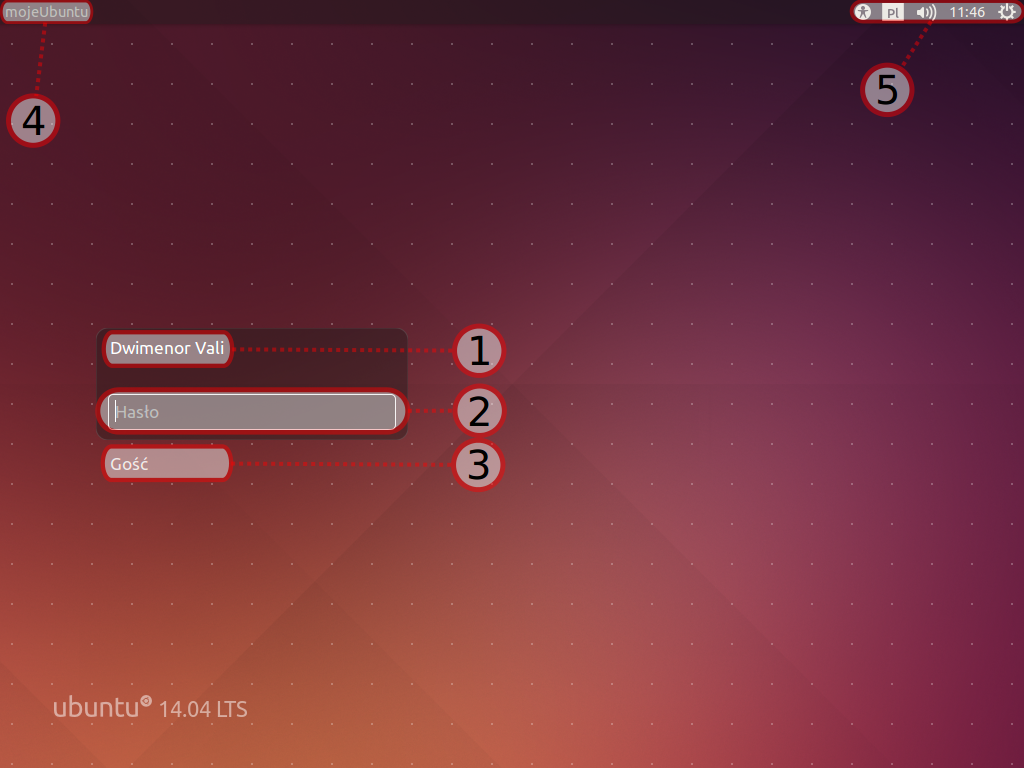
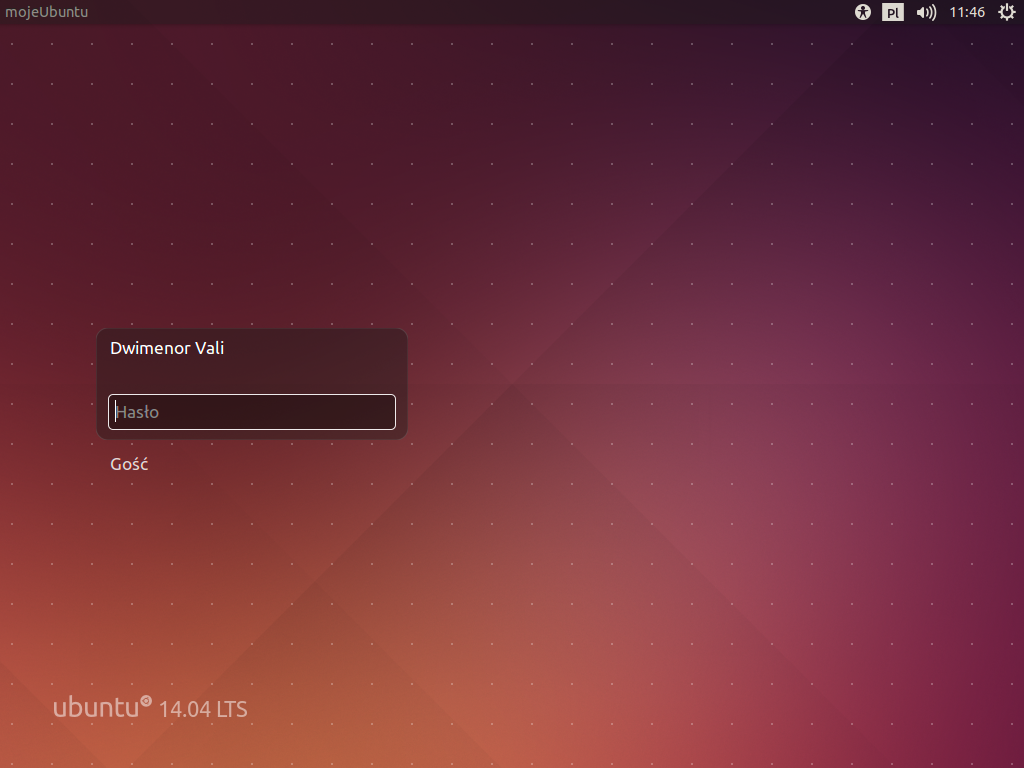
Przygotowanie do wydania

diff --git a/files/unity/programy_nautilus.tex b/files/unity/programy_nautilus.tex
@@ -7,9 +7,33 @@ Menadżer plików jest programem służącym do przeglądania zawartości katalo
 
 Program Pliki po uruchomieniu wyświetla zawartość katalogu domowego, w którym użytkownik przechowuje swoje osobiste pliki. Każdy użytkownik ma swój oddzielny katalog domowy, którego nazwa odpowiadania nazwie użytkownika. Po utworzeniu konta w katalogu domowym automatycznie tworzone są katalogi Dokumenty, Muzyka, Obrazy, Pobrane, Publiczny, Pulpit, Szablony, Wideo. Użytkownik nie jest ograniczony jedynie do nich i bez problemu w katalogu domowym może stworzyć więcej katalogów i plików.
 
+Menadżer plików w lewym panelu będzie też wyświetlał podłączone urządzenia (pendrive'y, karty SD, płyty włożone do napędów optycznych) oraz udziały sieciowe (inne podłączone komputery). Pozycja \textcolor{ubuntu_orange}{Komputer} przenosi do początku systemu plików (katalog /).
+
 \begin{center}
-	\includegraphics[width=\linewidth]{images/programy_nautilus.png}
+	\begin{tikzpicture}
+	\node[anchor=south west,inner sep=0] (image) at (0,0) {\includegraphics[width=\linewidth]{images/programy_nautilus.png}};
+	\begin{scope}[x={(image.south east)},y={(image.north west)}]
+		\draw[ubuntu_orange,line width=3pt,rounded corners] (0.005,0.88) rectangle (0.085,0.95);
+		\draw[ubuntu_orange,line width=3pt,fill=white,fill opacity=0.75] (0.35,0.96) circle [radius=0.30cm]
+			node[text=black]{\Large \textbf 1};
+		\draw[ubuntu_orange,dashed,line width=3pt] (0.33,0.96) -- (0.05,0.98) -- (0.05,0.95);
+		
+		\draw[ubuntu_orange,line width=3pt,rounded corners] (0.085,0.88) rectangle (0.27,0.95);
+		\draw[ubuntu_orange,line width=3pt,fill=white,fill opacity=0.75] (0.35,0.89) circle [radius=0.30cm]
+			node[text=black]{\Large \textbf 2};
+		\draw[ubuntu_orange,dashed,line width=3pt] (0.33,0.89) -- (0.27,0.89);
+		
+		\draw[ubuntu_orange,line width=3pt,fill=white,fill opacity=0.75] (0.55,0.35) circle [radius=0.30cm]
+			node[text=black]{\Large \textbf 3};
+					
+		\draw[ubuntu_orange,line width=3pt,rounded corners] (0.005,0.005) rectangle (0.22,0.87);
+		\draw[ubuntu_orange,line width=3pt,fill=white,fill opacity=0.75] (0.1,0.1) circle [radius=0.30cm]
+			node[text=black]{\Large \textbf 4};
+
+    \end{scope}
+\end{tikzpicture}
 \end{center}
+
 
 W oknie menadżera plików widzimy:
 \begin{enumerate}[label=\protect\circled{\arabic*}]
@@ -18,8 +42,6 @@ W oknie menadżera plików widzimy:
 \item zawartośc aktualnego katalogu;
 \item pasek ze skrótami do najważniejszych miejsc.
 \end{enumerate}
-
-Menadżer plików w lewym panelu będzie też wyświetlał podłączone urządzenia (pendrive'y, karty SD, płyty włożone do napędów optycznych) oraz udziały sieciowe (inne podłączone komputery). Pozycja \textcolor{ubuntu_orange}{Komputer} przenosi do początku systemu plików (katalog /)
 
 Do nawigacji w pasku narzędzi oraz lewym panelu wykorzystywane jest pojedyncze kliknięcie lewym przyciskiem myszy. W prawym panelu pliki oraz katalogi domyślnie otwieramy dwukrotnym szybkim przyciśnięciem lewego przycisku myszy. W przypadku otwarcia pliku, Ubuntu rozpozna typ pliku i automatycznie spróbuje przypisać odpowiednią dla danego pliku aplikację. Czasami system może nie rozpoznać typu pliku lub może zajść potrzeba otwarcia pliku w innym programie. W takich wypadkach, po dwukrotnym kliknięciu pliku system zapyta, który program z zainstalowanych w systemie chcemy wykorzystać. Możemy również kliknąć plik prawym przyciskiem myszy i z menu kontekstowego wybrać ,,Otwórz za pomocą'', a następnie wybrać z listy dostępnych programów lub samemu wskazać inny.
 
@@ -42,21 +64,21 @@ Ubuntu, jak każdy inny linux, umożliwia tworzenie ukrytych plików i katalogó
 UWAGA: Wyświetlenie ukrytych plików w katalogu domowym użytkownika wyświetli wiele dodatkowych plików i katalogów, które w większości przypadków przechowują ustawienia wielu programów, wyglądu oraz zachowań konta użytkownika. Niewłaściwe obchodzenie się z tymi plikami może mieć negatywne skutki. Zaleca się zatem dodatkową ostrożność.
 
 \subsubsection{Kopiowanie i przenoszenie plików oraz katalogów}
-Ubuntu, jak każdy inny system, umożliwia kopiowanie i przenoszenie plików oraz katalogów z jednego miejsca w inne. Aby plik lub katalog skopiować, albo przenieść, z jednego miejsca w inne, trzeba go najpierw zaznaczyć, a następnie kliknąć prawym przyciskiem myszy i wybrać z menu kontekstowego ,,Skopiuj'' (w przypadku, gdy chcemy utworzyć kopię) lub ,,Wytnij'' (w przypadku, gdy plik chcemy przenieść), a następnie przechodzimy do katalogu, w którym plik chcemy umieścić i w wolnym miejscu klikamy prawym przyciskiem myszy i wybieramy ,,Wklej''. Te same opcje dostępne są z panelu menu i znajdują się one w zakładce ,,Edycja''.
+Ubuntu, jak każdy inny system, umożliwia kopiowanie i przenoszenie plików oraz katalogów z~jednego miejsca w inne. Aby plik lub katalog skopiować, albo przenieść, z jednego miejsca w inne, trzeba go najpierw zaznaczyć, a następnie kliknąć prawym przyciskiem myszy i wybrać z menu kontekstowego ,,Skopiuj'' (w przypadku, gdy chcemy utworzyć kopię) lub ,,Wytnij'' (w przypadku, gdy plik chcemy przenieść), a następnie przechodzimy do katalogu, w którym plik chcemy umieścić i w wolnym miejscu klikamy prawym przyciskiem myszy i wybieramy ,,Wklej''. Te same opcje dostępne są z panelu menu i znajdują się one w zakładce ,,Edycja''.
 
 W menu kontekstowym pod prawym przyciskiem myszy mamy również opcję \textcolor{ubuntu_orange}{Skopiuj do \ldots} oraz \textcolor{ubuntu_orange}{Przenieś do \ldots}. Po ich wybraniu będziemy mieli możliwość wskazania folderu, w którym chcemy umieścić nasz plik lub katalog.
 Do powyższych czynności możemy również wykorzystać skróty klawiaturowe. Aby skopiować zaznaczony obiekt, należy użyć skrótu \keys{CTRL + c}, aby go przenieść --- \keys{CTRL + x}, aby wkleić obiekt w nowym miejscu --- \keys{CTRL + v}.
 
 Aby zaznaczyć wiele obiektów naraz, należy kliknąć wolne miejsce w oknie, przytrzymać lewy przycisk myszy i zaznaczyć wybrane elementy. Gdy pliki znajdują się obok siebie, można wykorzystać przycisk \keys{Shift} --- przytrzymując go, należy najpierw pojedynczym kliknięciem lewym przyciskiem myszy zaznaczyć pierwszy obiekt, a następnie ciągle przytrzymując przycisk \keys{Shift} kliknąć następny obiekt. Gdy obiekty, które chcemy zaznaczyć, przedzielone są innymi obiektami, wówczas pomocny może się okazać przycisk \keys{CTRL} --- przytrzymanie go również umożliwia zaznaczenie wielu elementów, tyle że niekoniecznie muszą one znajdować się obok siebie.
 
-\subsubsection{Wyszukiwanie plików w programie Pliki}
+\subsubsection{Wyszukiwanie plików}
 \begin{center}
 	\includegraphics[width=\linewidth]{images/programy_nautilus2.png}
 \end{center}
 
 To, że Dash jest potężnym narzędziem i że pozwala wyszukiwać pliki, już wiemy. Ale pliki i katalogi możemy również wyszukiwać wykorzystując okno programu Pliki. Jak już wcześniej wspomnieliśmy, na pasku narzędzi okna programu znajduje się przycisk wyszukiwania (ikona szkła powiększającego). Po naciśnięciu przycisku wyszukiwania pojawi się pasek, w którym podajemy frazę (nazwę pliku lub katalogu) do wyszukania. Rezultaty wyszukiwania, podobnie jak w Dashu, możemy filtrować. Możemy określić, czy wyszukiwanie ma się odbywać w obrębie naszego katalogu domowego, czy w całym systemie. Możemy również podać dodatkowe kryteria wyszukiwania, określając jakiego typu plików szukamy.
 
-\subsubsection{Używanie wielu okien lub wielu kart w programie Pliki}
+\subsubsection{Używanie wielu okien lub wielu kart}
 W przypadku kopiowania lub przenoszenia plików pomocne może być otwarcie wielu okien lub kart. Nowe okno programu Pliki można otworzyć na wiele sposób:
 \begin{itemize}
 \item wykorzystując panel menu i przycisk \menu{{Plik}>{Nowe okno}};

diff --git a/files/unity/unity_dash.tex b/files/unity/unity_dash.tex
@@ -1,8 +1,8 @@
+Dash jest potężnym narzędziem Unity, pozwalającym na szybkie wyszukiwanie i łatwy dostęp do programów, plików oraz dodatkowych informacji przechowywanych nie tylko w naszym komputerze (zainstalowane programy, ostatnio używane dokumenty, zakładki, ostatnio odwiedzone strony i inne), ale również dostępnych w sieci (Twitter, Facebook, Google Docs, Youtube, Wikipedia, Amazon i inne). Wyniki wyszukiwania w zewnętrznych serwisach dopasowane są do wyszukiwanej frazy i zwracane w~oknie Dasha. Jeżeli niepokoi cię, że szukana fraza przesyłana jest do internetu, to możesz tę funkcję wyłączyć w Ustawieniach systemowych, w oknie \textcolor{ubuntu_orange}{Prywatność i bezpieczeństwo}.
+
 \begin{center}
 	\includegraphics[width=\linewidth]{images/unity_pulpit_dash.png}
 \end{center}
-
-Dash jest potężnym narzędziem Unity, pozwalającym na szybkie wyszukiwanie i łatwy dostęp do programów, plików oraz dodatkowych informacji przechowywanych nie tylko w naszym komputerze (zainstalowane programy, ostatnio używane dokumenty, zakładki, ostatnio odwiedzone strony i inne), ale również dostępnych w sieci (Twitter, Facebook, Google Docs, Youtube, Wikipedia, Amazon i inne). Wyniki wyszukiwania w zewnętrznych serwisach dopasowane są do wyszukiwanej frazy i zwracane w oknie Dasha. Jeżeli niepokoi cię, że szukana fraza przesyłana jest do internetu, to możesz tę funkcję wyłączyć w Ustawieniach systemowych, w oknie \textcolor{ubuntu_orange}{Prywatność i bezpieczeństwo}.
 
 Dash można porównać do Menu Start z systemu Microsoft Windows XP/Vista/7 lub do ekranu startowego w Windows 8. Odpowiednikiem Dasha w systemie Mac OS X jest Launchpad.
 
@@ -11,14 +11,13 @@ Dash można porównać do Menu Start z systemu Microsoft Windows XP/Vista/7 lub 
 	\includegraphics[width=\linewidth]{images/ikony_dash.png}
 \end{wrapfigure}
 
-Ikona Dasha umieszczona jest na pierwszej pozycji na pasku Launchera --- jest ona dość charakterystyczna i zawiera logo Ubuntu. Po naciśnięciu ikony Dasha pojawi się jego przezroczyste okno, które w środkowej części wyświetla dwie grupy: ostatnio uruchomionych programów, ostatnio przeglądanych oraz pobranych plików i katalogów, a także wyszukiwanych informacji. W górnej części Dasha znajduje się pasek wyszukiwania, który pozwala przeszukiwać nie tylko zasoby komputera, ale również wyszukiwać i przeglądać informacje z popularnych serwisów w sieci. 
+Ikona Dasha umieszczona jest na pierwszej pozycji na pasku Launchera --- jest ona dość charakterystyczna i zawiera logo Ubuntu. Po naciśnięciu ikony Dasha pojawi się jego przezroczyste okno, które w środkowej części wyświetla dwie grupy: ostatnio uruchomionych programów, ostatnio przeglądanych oraz pobranych plików i katalogów, a także wyszukiwanych informacji. W górnej części Dasha znajduje się pasek wyszukiwania, który pozwala przeszukiwać nie tylko zasoby komputera, ale również wyszukiwać i przeglądać informacje z~popularnych serwisów w sieci. 
 
-\begin{wrapfigure}{l}{0.2\textwidth}
-                \includegraphics[width=\linewidth]{images/unity_dash_max.png}
+\begin{wrapfigure}{r}{0.2\textwidth}
+	\includegraphics[width=\linewidth]{images/unity_dash_max.png}
 \end{wrapfigure}
 
-Dash po uruchomieniu zajmuje pewien obszar ekranu. Jego okno można powiększyć na cały ekran --- służy do tego przycisk maksymalizacji w lewym górnym rogu, widoczny, gdy Dash jest aktywny.\\
-Wyszukiwanie w pasku jest dynamiczne i rezultaty zmieniają się podczas wpisywania tekstu, a wyniki można filtrować. Służy do tego nie tylko przycisk filtrowania wyników, ale również domyślnie włączone soczewki (Lenses).
+Dash po uruchomieniu zajmuje pewien obszar ekranu. Jego okno można powiększyć na cały ekran --- służy do tego przycisk maksymalizacji w lewym górnym rogu, widoczny, gdy Dash jest aktywny. Wyszukiwanie w pasku jest dynamiczne i rezultaty zmieniają się podczas wpisywania tekstu, a wyniki można filtrować. Służy do tego nie tylko przycisk filtrowania wyników, ale również domyślnie włączone soczewki (Lenses).
 
 \subsubsection{Soczewki (Lenses)}
 \begin{center}
@@ -55,4 +54,3 @@ Wyniki wyszukiwania można zawęzić do konkretnych źródeł, wykorzystując do
 \end{center}
 
 W Ubuntu nie jesteśmy ograniczeni do domyślnego zestawu soczewek. Wiele serwisów internetowych udostępnia swoje własne soczewki, które można w łatwy sposób doinstalować i korzystać z nich w ten sam sposób, jak z domyślnych.
-%TODO opisać instalację soczewki.

diff --git a/files/unity/unity_launcher.tex b/files/unity/unity_launcher.tex
@@ -3,16 +3,16 @@ Pasek umieszczony po lewej stronie ekranu nosi nazwę Launchera (ang: \textcolor
 \subsubsection{Uruchamianie programów z Launchera}
 \begin{wrapfigure}{l}{0.1\textwidth}
 	\vspace{-10pt}
-\includegraphics[width=\linewidth]{images/unity_launcher_programy.png}
+	\includegraphics[width=\linewidth]{images/unity_launcher_programy.png}
 \end{wrapfigure}
 
 Aby uruchomić program bezpośrednio z Launchera, wystarczy pojedyncze kliknięcie ikony wybranego programu lewym przyciskiem myszy. Uruchomione programy mają podświetlone ikony oraz niewielki trójkącik po lewej stronie. Aby uruchomić kolejną kopię programu, kliknij jego ikonę lewym przyciskiem myszy, trzymając wciśnięty klawisz \keys{Shift}.
 
-\noindent Liczba trójkątów po lewej stronie programu oznacza ilość otwartych kopii danego programu. Jak łatwo się domyślić, gdy ikona nie ma żadnego trójkącika, to program jest wyłączony. Program, którego aktualnie używamy (aktywne okno), jest oznaczony trójkącikiem po prawej stronie ikony.
+Liczba trójkątów po lewej stronie programu oznacza ilość otwartych kopii danego programu. Jak łatwo się domyślić, gdy ikona nie ma żadnego trójkącika, to program jest wyłączony. Program, którego aktualnie używamy (aktywne okno), jest oznaczony trójkącikiem po prawej stronie ikony.
 
-\noindent Na rysunku obok widzimy ikonę programu Pliki (menadżer plików Nautilus), który jest uruchomiony jeden raz. Tło ikony jest podświetlone.\\
-Ikona przeglądarki internetowej Firefox ma trzy trójkąty po lewej. Oznacza to, że została uruchomiona w trzech osobnych instancjach. Jedna z kopii Firefoksa jest akurat w użyciu, co sygnalizuje trójkącik po prawej. Tło ikony jest podświetlone.\\
-Trzecia ikona na rynku (skrót do procesora tekstu LibreOffice Writer) jest nieaktywna. Ten program nie jest aktualnie uruchomiony.
+Na rysunku obok widzimy ikonę programu Pliki (menadżer plików Nautilus), który jest uruchomiony jeden raz. Tło ikony jest podświetlone.
+
+Ikona przeglądarki internetowej Firefox ma trzy trójkąty po lewej. Oznacza to, że została uruchomiona w trzech osobnych instancjach. Jedna z kopii Firefoksa jest akurat w użyciu, co sygnalizuje trójkącik po prawej. Tło ikony jest podświetlone. Trzecia ikona na rynku (skrót do procesora tekstu LibreOffice Writer) jest nieaktywna. Ten program nie jest aktualnie uruchomiony.
 
 \subsubsection{Zarządzanie otwartymi oknami}
 Kliknięcie ikony uruchomionego programu lewym przyciskiem myszy przenosi do otwartego okna. Jeżeli dany program ma więcej niż jedną instancję, to pokazane zostaną miniatury wszystkich jego okien. Klikając lewym przyciskiem myszy możesz wybrać, o które okno ci chodzi. 
@@ -36,9 +36,10 @@ Druga metoda polega na uruchomieniu programu. Następnie należy kliknąć prawy
 Ikonę z paska można usunąć na dwa sposoby. Chwyć ikonę kursorem myszy i przenieś ją do kosza lub, po naciśnięciu ikony prawym przyciskiem myszy, z menu kontekstowego wybierz \textcolor{ubuntu_orange}{Usuń z panelu uruchamiania}.
 
 \subsubsection{Szybka Lista menu kontekstowego (QuickList)}
+QuickList (Szybka Lista) to jedna z ciekawszych funkcji Launchera. Po kliknięciu prawym przyciskiem myszy ikony programu w Launcherze pojawia się menu kontekstowe, w którym można umieścić różne polecenia. Na poniższej ilustracji widać dwa przykłady. Po lewej mamy menu kontekstowe Dasha, zawierające skróty do zainstalowanych soczewek (omówionych w kolejnym rozdziale). Po prawej widać menu kontekstowe menadżera plików, zawierające skróty do najważniejszych katalogów użytkownika. Przeglądarka internetowa Firefox pozwoli dodatkowo uruchomić okno anonimowego przeglądania.
+
 \begin{center}
 	\includegraphics[width=\linewidth]{images/unity_launcher_quicklist.png}
 \end{center}
 
-QuickList (Szybka Lista) to jedna z ciekawszych funkcji Launchera. Po kliknięciu prawym przyciskiem myszy ikony programu w Launcherze pojawia się menu kontekstowe, w którym można umieścić różne polecenia. Na powyższej ilustracji widać dwa przykłady. Po lewej mamy menu kontekstowe Dasha, zawierające skróty do zainstalowanych soczewek (omówionych w kolejnym rozdziale). Po prawej widać menu kontekstowe menadżera plików, zawierające skróty do najważniejszych katalogów użytkownika. Przeglądarka internetowa Firefox pozwoli dodatkowo uruchomić okno anonimowego przeglądania.
-\clearpage
+

diff --git a/files/pierwsze_uruchomienie/pierwsze_uruchomienie_aktualizacja_instalacja.tex b/files/pierwsze_uruchomienie/pierwsze_uruchomienie_aktualizacja_instalacja.tex
@@ -8,13 +8,11 @@
 Kliknij ikonę Dasha \includegraphics[scale=0.35]{images/ikony_dash.png} i wpisz \textcolor{ubuntu_orange}{Aktualizacje}. W trakcie wpisywania na ekranie wyników będą się pojawiały propozycje. Wybierz kolejno \menu{{Programy}>{Aktualizacje oprogramowania}}.
 System sprawdzi, czy dostępne są aktualizacje dla twojego Ubuntu i wyświetli podsumowanie.
 \begin{center}
-	\vspace{-10pt}
 	\includegraphics{images/pierwsze_uruchomienie_aktualizacja2.png}
 \end{center}
 
 Kliknij przycisk \textcolor{ubuntu_orange}{Zainstaluj}, aby zainstalować aktualizacje. Zostaniesz poproszony o podanie hasła w celu uwierzytelnienia. Każda operacja mająca wpływ na cały system wymaga potwierdzenia. Zapobiega to przypadkowemu uszkodzeniu systemu.
 \begin{center}
-	\vspace{-10pt}
 	\includegraphics{images/unity_uwierzytelnienie.png}
 \end{center}
 
@@ -23,7 +21,7 @@ Wpisz swoje hasło i potwierdź klawiszem Enter lub kliknij przycisk \textcolor{
 Kiedy aktualizacja się zakończy, możesz zostać poproszony o ponowne uruchomienie komputera. Restart jest potrzebny tylko wtedy, gdy aktualizowane było jądro systemu lub sterowniki. Inne aktualizacje nie wymagają restartu komputera, a jedynie zaktualizowanego programu.
 
 Później system będzie automatycznie sprawdzał, czy dostępne są aktualizacje, i powiadomi cię o tym.
-
+\clearpage
 \subsubsection{Instalacja spolszczenia}
 \begin{wrapfigure}{R}{0.1\textwidth}
 	\vspace{-10pt}
@@ -40,7 +38,7 @@ Kliknij ikonę Dasha \includegraphics[scale=0.35]{images/ikony_dash.png} i wpisz
 
 Po instalacji niezbędnych paczek możesz jeszcze dla pewności kliknąć \textcolor{ubuntu_orange}{Zastosuj dla całego systemu}. W ten sposób będziesz pewny, że cały system zostanie spolszczony.
 Jeśli zechcesz, aplikacja \textcolor{ubuntu_orange}{Języki} pozwoli ci później w łatwy sposób zainstalować i zmienić język systemu na każdy ze wspieranych przez społeczność Ubuntu.
-
+\clearpage
 \subsubsection{Instalacja dodatkowych sterowników}
 \label{pierwsze_uruchomienie_aktualizacja_instalacja}
 \begin{wrapfigure}{R}{0.1\textwidth}
@@ -50,12 +48,11 @@ Jeśli zechcesz, aplikacja \textcolor{ubuntu_orange}{Języki} pozwoli ci późni
 
 Prawdopodobnie nie wszystkie sterowniki zostały włączone podczas instalacji Ubuntu. Aby się upewnić, że sprzęt jest prawidłowo obsługiwany, kliknij ikonę Dasha \includegraphics[scale=0.35]{images/ikony_dash.png} i wpisz \textcolor{ubuntu_orange}{Sterowniki}. Z wyświetlonych wyników wybierz ,,Aktualizacje i sterowniki''. W otwartym oknie przejdź do zakładki ,,Dodatkowe sterowniki''. Poczekaj chwilę, aż system zbierze dane o twoim komputerze i porówna je z bazą danych sterowników. Następnie będziesz mógł wybrać, który sterownik z wyświetlonej listy powinien zostać użyty.
 \begin{center}
-	\vspace{-10pt}
 	\includegraphics[width=\linewidth]{images/pierwsze_uruchomienie_driver2.png}
 \end{center}
 
 Zmiana sterownika wymaga potwierdzenia. Wpisz swoje hasło i potwierdź klawiszem Enter lub kliknij przycisk \textcolor{ubuntu_orange}{Uwierzytelnij}. Więcej o wyborze sterownika przeczytasz w rozdziale \ref{sterowniki},,Sterowniki''.
-
+\clearpage
 \subsubsection{Instalacja dodatków}
 \label{ubuntu-restricted-extras}
 \begin{wrapfigure}{R}{0.1\textwidth}
@@ -65,7 +62,6 @@ Zmiana sterownika wymaga potwierdzenia. Wpisz swoje hasło i potwierdź klawisze
 
 Na koniec warto zainstalować kilka dodatkowych pakietów oprogramowania. Kliknij ikonę Dasha \includegraphics[scale=0.35]{images/ikony_dash.png} i wpisz \textcolor{ubuntu_orange}{Centrum Oprogramowania}. Z wiersza \textcolor{ubuntu_orange}{Programy} wybierz \textcolor{ubuntu_orange}{Centrum Oprogramowania Ubuntu}. W prawym górnym rogu nowo otwartego okna znajduje się pole wyszukiwania. Wpisz w nim \textcolor{ubuntu_orange}{Ograniczone dodatki Ubuntu} i wciśnij Enter. Poczekaj, aż odnaleziona zostanie ta paczka. Z listy wybierz \textcolor{ubuntu_orange}{Ubuntu restricted extras} i kliknij \textcolor{ubuntu_orange}{Zainstaluj}. Instalacja oprogramowania wymaga uwierzytelnienia. Wpisz swoje hasło i potwierdź klawiszem Enter lub kliknij przycisk \textcolor{ubuntu_orange}{Uwierzytelnij}.
 \begin{center}
-	\vspace{-10pt}
 	\includegraphics[width=\linewidth]{images/pierwsze_uruchomienie_dodatki2.png}
 \end{center}
 

diff --git a/files/unity/unity_panel_menu.tex b/files/unity/unity_panel_menu.tex
@@ -6,11 +6,11 @@
 
 Część wskaźników widoczna jest zaraz po zainstalowaniu systemu, inne można włączyć dodatkowo. Niektóre aplikacje po zainstalowaniu dodają, lub umożliwiają dodanie własnych wskaźników do obszaru powiadamiania. Najczęściej stosowane i domyślnie dostępne w Unity wskaźniki, to:
 \begin{description}
-\item[\includegraphics{images/unity_wskaznik_klawiatura.png}]\textcolor{ubuntu_orange}{Wskaźnik klawiatury} --- informuje o aktualnie używanym układzie klawiatury. Klikając go możesz zmienić układ klawiatury.
 \item[\includegraphics{images/unity_wskaznik_siec.png}]\textcolor{ubuntu_orange}{Wskaźnik połączeń sieciowych} --- informuje o stanie połączenia z siecią. Kliknięcie wywołuje opcje modyfikacji połączenia z internetem.
+\item[\includegraphics{images/unity_wskaznik_klawiatura.png}]\textcolor{ubuntu_orange}{Wskaźnik klawiatury} --- informuje o aktualnie używanym układzie klawiatury. Klikając go możesz zmienić układ klawiatury.
 \item[\includegraphics{images/unity_wskaznik_wiadomosci.png}]\textcolor{ubuntu_orange}{Wskaźnik wiadomości} --- informuje o przychodzących wiadomościach. Ten wskaźnik integruje się z komunikatorami internetowymi i zmienia kolor, gdy otrzymasz nową wiadomość. Pozwala także sterować komunikatorem, np. zmienić status lub wywołać okno główne.
-\item[\includegraphics{images/unity_wskaznik_dzwiek.png}]\textcolor{ubuntu_orange}{Wskaźnik ustawień dźwięku} --- informuje o głośności wyjścia audio. Jeżeli kursor myszy znajduje się nad tym wskaźnikiem, to poruszając kółkiem myszy możesz zmieniać głośność. Kliknięcie wskaźnika otwiera menu ustawień dźwięku oraz menu sterownia odtwarzaczem muzyki (pozwala np. go uruchomić lub zatrzymać, zmienić utwór, wyświetlić okładkę i informacje o aktualnie odtwarzanym pliku,a także włączyć listę odtwarzania).
 \item[\includegraphics{images/unity_wskaznik_zasilanie.png}]\textcolor{ubuntu_orange}{Wskaźnik zasilania i poziomu akumulatora} --- informuje o stanie stanie naładowania akumulatora oraz o dostępnym zasilaniu (akumulator/sieć). Ten wskaźnik nie jest wyświetlany, jesli komputer nie ma baterii. Kliknięcie wskaźnika otwiera menu zasilania.
+\item[\includegraphics{images/unity_wskaznik_dzwiek.png}]\textcolor{ubuntu_orange}{Wskaźnik ustawień dźwięku} --- informuje o głośności wyjścia audio. Jeżeli kursor myszy znajduje się nad tym wskaźnikiem, to poruszając kółkiem myszy możesz zmieniać głośność. Kliknięcie wskaźnika otwiera menu ustawień dźwięku oraz menu sterownia odtwarzaczem muzyki (pozwala np. go uruchomić lub zatrzymać, zmienić utwór, wyświetlić okładkę i informacje o aktualnie odtwarzanym pliku,a także włączyć listę odtwarzania).
 \item[\includegraphics{images/unity_wskaznik_zegar.png}]\textcolor{ubuntu_orange}{Zegar} --- wyświetla aktualną datę i czas. Kliknięcie otwiera kalendarz.
 \item[\includegraphics{images/unity_wskaznik_system.png}]\textcolor{ubuntu_orange}{Wskaźnik sesji} --- po kliknięciu wyświetla menu systemowe, pozwalające wyłączyć/zrestartować komputer, wyświetlić informacje o systemie, przełączyć użytkownika lub otworzyć narzędzie konfiguracji systemu.
 \end{description}

diff --git a/files/unity/unity_zarzadanie_oknami.tex b/files/unity/unity_zarzadanie_oknami.tex
@@ -1,5 +1,4 @@
 \begin{center}
-	\vspace{-10pt}
 	\includegraphics[width=\linewidth]{images/unity_okno_belka.png}
 \end{center}
 
@@ -15,7 +14,7 @@ W Ubuntu elementy sterujące okna (przyciski zamykania, minimalizacji i maksymal
 \subsubsection{Przenoszenie i zmiana rozmiaru okna}
 Po kliknięciu lewym przyciskiem myszy belki tytułowej okna i przytrzymaniu, możemy je przenieść w dowolne miejsce na pulpicie. Okno można również przenieść przytrzymując przycisk \keys{Alt} --- wówczas wystarczy kliknąć lewym przyciskiem myszy i przytrzymać w dowolnym miejscu okna, które chcemy przenieść.
 
-Aby zmienić rozmiar okna, kursor myszy należy umieścić nad wybraną krawędzią lub rogiem okna. Domyślny kursor zmieni się wówczas w dwustronną strzałkę, zwaną kursorem rozszerzania. Przytrzymanie przycisku myszy, gdy aktywny jest kursor rozszerzania, pozwoli na zmianę rozmiaru i kształtu okna.
+Aby zmienić rozmiar okna, kursor myszy należy umieścić nad wybraną krawędzią lub rogiem okna. Domyślny kursor zmieni się wówczas w dwustronną strzałkę, zwaną kursorem rozszerzania. Przytrzymanie przycisku myszy, gdy aktywny jest kursor rozszerzania, pozwoli na zmianę rozmiaru i~kształtu okna.
 
 \subsubsection{Przełączanie pomiędzy otwartymi oknami}
 W Ubuntu jest wiele sposobów na przełączanie pomiędzy otwartymi programami. Można wykorzystać mysz i kliknąć w dowolnym miejscu otwartych okien. Można wykorzystać ikony otwartych okien na pasku Launchera. Można również wykorzystać kombinację klawiszy \keys{Alt + Tab}.
@@ -23,12 +22,12 @@ W Ubuntu jest wiele sposobów na przełączanie pomiędzy otwartymi programami. 
 Gdy mamy otwarte wiele okien, przytrzymanie przycisku \keys{Alt} i wielokrotne naciskanie przycisku \keys{Tab} pozwala wybrać, które okno chcemy aktywować. Domyślnie przełączane w ten sposób są tylko okna z aktywnego obszaru roboczego. Korzystając z kombinacji \keys{Super + Tab} możemy przełączać pomiędzy kolejnymi ikonami na pasku Launchera.
 
 \subsubsection{Ukrywanie wszystkich okien --- pokaż pulpit}
-Aby ukryć wszystkie okna, nie trzeba ich, jedno po drugim, minimalizować. Można skorzystać ze skrótu \keys{Ctrl + Super + d}. Jego użycie spowoduje ukrycie wszystkich otwartych okien. Ponowne zastosowanie tego skrótu przywróci otwarte okna.
-
 \begin{wrapfigure}{l}{0.05\textwidth}
 	\vspace{-10pt}	
 	\includegraphics[width=\linewidth]{images/ikony_pokaz_pulpit.png}
 \end{wrapfigure}
+
+Aby ukryć wszystkie okna, nie trzeba ich, jedno po drugim, minimalizować. Można skorzystać ze skrótu \keys{Ctrl + Super + d}. Jego użycie spowoduje ukrycie wszystkich otwartych okien. Ponowne zastosowanie tego skrótu przywróci otwarte okna.
 
 W Ubuntu można również aktywować ikonę \textcolor{ubuntu_orange}{Pokaż pulpit}. Aby to zrobić, kliknij ikonę systemową \includegraphics{images/ikony_zasilanie.png} na panelu menu (w prawym górnym rogu) i wybierz \menu{{Ustawienia systemu}>{Osobiste}>{Wygląd}>{Zachowanie}>{Umieść ikonę ,,Pokaż pulpit'' na pasku Launchera}}.
 

diff --git a/files/pierwsze_uruchomienie/pierwsze_uruchomienie_greater.tex b/files/pierwsze_uruchomienie/pierwsze_uruchomienie_greater.tex
@@ -1,5 +1,33 @@
 \begin{center}
-        \includegraphics[scale=0.4]{images/greater.png}
+        	\begin{tikzpicture}
+	\node[anchor=south west,inner sep=0] (image) at (0,0) {\includegraphics[width=\linewidth]{images/greater.png}};
+	\begin{scope}[x={(image.south east)},y={(image.north west)}]
+		\draw[ubuntu_orange,line width=3pt,rounded corners] (0.1,0.52) rectangle (0.23,0.57);
+		\draw[ubuntu_orange,line width=3pt,fill=white,fill opacity=0.75] (0.45,0.55) circle [radius=0.30cm]
+			node[text=black]{\Large \textbf 1};
+		\draw[ubuntu_orange,dashed,line width=3pt] (0.43,0.55) -- (0.23,0.55);
+		
+		\draw[ubuntu_orange,line width=3pt,rounded corners] (0.1,0.44) rectangle (0.39,0.49);
+		\draw[ubuntu_orange,line width=3pt,fill=white,fill opacity=0.75] (0.45,0.47) circle [radius=0.30cm]
+			node[text=black]{\Large \textbf 2};
+		\draw[ubuntu_orange,dashed,line width=3pt] (0.43,0.47) -- (0.39,0.47);
+		
+		\draw[ubuntu_orange,line width=3pt,rounded corners] (0.1,0.38) rectangle (0.23,0.42);
+		\draw[ubuntu_orange,line width=3pt,fill=white,fill opacity=0.75] (0.45,0.40) circle [radius=0.30cm]
+			node[text=black]{\Large \textbf 3};
+		\draw[ubuntu_orange,dashed,line width=3pt] (0.43,0.40) -- (0.23,0.40);
+		
+		\draw[ubuntu_orange,line width=3pt,rounded corners] (0.00,0.96) rectangle (0.10,1.00);
+		\draw[ubuntu_orange,line width=3pt,fill=white,fill opacity=0.75] (0.05,0.85) circle [radius=0.30cm]
+			node[text=black]{\Large \textbf 4};
+		\draw[ubuntu_orange,dashed,line width=3pt] (0.05,0.87) -- (0.05,0.96);
+		
+		\draw[ubuntu_orange,line width=3pt,rounded corners] (0.82,0.96) rectangle (1.00,1.00);
+		\draw[ubuntu_orange,line width=3pt,fill=white,fill opacity=0.75] (0.90,0.85) circle [radius=0.30cm]
+			node[text=black]{\Large \textbf 5};
+		\draw[ubuntu_orange,dashed,line width=3pt] (0.90,0.87) -- (0.90,0.96);
+    \end{scope}
+\end{tikzpicture}
 \end{center}
 
 W czasie ładowania systemu operacyjnego będzie widoczne logo Ubuntu ze stopniowo wypełniającymi się kwadratami. Po wciśnięciu dowolnego klawisza logo zostanie zastąpione szczegółowym opisem tego, co jest aktualnie wykonywane.
@@ -18,4 +46,3 @@ Kiedy proces uruchamiania systemu dobiegnie końca, zobaczysz ekran logowania Ub
 \item[\includegraphics{images/ikony_zasilanie.png}] \textcolor{ubuntu_orange}{Zasilanie} --- wyłączenie lub ponowne uruchomienie komputera.
 \end{description}
 \end{enumerate}
-\clearpage

diff --git a/files/unity/unity_hud.tex b/files/unity/unity_hud.tex
@@ -1,4 +1,4 @@
-Spamiętanie wszystkich skrótów klawiaturowych może być trudne, zwłaszcza gdy mamy do czynienia z programami, które mają ich wiele do dyspozycji. Często też niektóre programy nie posiadają przycisków w oknie programu lub skrótów do pewnych funkcji, ukrytych gdzieś głęboko za którymś z przycisków na pasku menu. Często jest tak, że pamiętamy nazwę funkcji, ale już nie bardzo miejsce, w którym się ona znajduje. Tu z pomocą przychodzi \textcolor{ubuntu_orange}{HUD} (Heads-up Display).
+Spamiętanie wszystkich skrótów klawiaturowych może być trudne, zwłaszcza gdy mamy do czynienia z programami, które mają ich wiele do dyspozycji. Często też niektóre programy nie posiadają przycisków w oknie programu lub skrótów do pewnych funkcji, ukrytych gdzieś głęboko za którymś z~przycisków na pasku menu. Często jest tak, że pamiętamy nazwę funkcji, ale już nie bardzo miejsce, w którym się ona znajduje. Tu z pomocą przychodzi \textcolor{ubuntu_orange}{HUD} (Heads-up Display).
 
 HUD jest silnie zintegrowanym narzędziem, które przy wykorzystaniu klawiatury pozwala dotrzeć nie tylko do najczęściej wykorzystywanych funkcji programu, ale również tych, o których często zapominamy, gdyż są zaszyte gdzieś głęboko. Przykładowe wykorzystanie HUD-a do skopiowania pliku:
 
@@ -6,8 +6,4 @@ HUD jest silnie zintegrowanym narzędziem, które przy wykorzystaniu klawiatury 
 	\includegraphics[width=\linewidth]{images/unity_hud1.png}
 \end{center}
 
-Inny przykład: Powiedzmy, że tworzymy dokument w programie OpenOffice Writer i potrzebujemy wstawić obiekt, czy formułę. Osobie, która z programu korzysta rzadko, znalezienie tej funkcji może zająć dłuższą chwilę. Z wykorzystaniem HUD-a jest to kwestia wpisania słowa „formuła” i wybrania odpowiedniej opcji w oknie wyników wyszukiwania:
-
-\begin{center}
-	\includegraphics[width=\linewidth]{images/unity_hud2.png}
-\end{center}
+Inny przykład: Powiedzmy, że tworzymy dokument w programie OpenOffice Writer i potrzebujemy wstawić obiekt, czy formułę. Osobie, która z programu korzysta rzadko, znalezienie tej funkcji może zająć dłuższą chwilę. Z wykorzystaniem HUD-a jest to kwestia wpisania słowa „formuła” i wybrania odpowiedniej opcji w oknie wyników wyszukiwania.

diff --git a/files/unity/unity_pulpit.tex b/files/unity/unity_pulpit.tex
@@ -8,10 +8,23 @@ Po zalogowaniu się do systemu ujrzysz Pulpit. Widać na nim trzy elementy --- p
 Aby zmienić tło pulpitu (inaczej: tapetę), kliknij \textbf{prawym przyciskiem myszy} wolną przestrzeń roboczą i z menu kontekstowego wybierz \textcolor{ubuntu_orange}{Zmień tło pulpitu}.
 
 \begin{wrapfigure}{r}{0.5\textwidth}
-	\vspace{-10pt}
-	\includegraphics[width=\linewidth]{images/unity_zmiana_tapety.png}
+	\vspace{-10pt}	
+	\begin{tikzpicture}
+	\node[anchor=south west,inner sep=0] (image) at (0,0) {\includegraphics[width=\linewidth]{images/unity_zmiana_tapety.png}};
+	\begin{scope}[x={(image.south east)},y={(image.north west)}]
+		\draw[ubuntu_orange,line width=1pt,rounded corners] (0.65,0.27) rectangle (0.96,0.71);
+		\draw[ubuntu_orange,line width=1pt,fill=white,fill opacity=0.75] (0.55,0.75) circle [radius=0.30cm]
+			node[text=black]{\Large \textbf 1};
+		\draw[ubuntu_orange,dashed,line width=1pt] (0.58,0.73) -- (0.65,0.65);
+		
+		\draw[ubuntu_orange,line width=1pt,rounded corners] (0.66,0.21) rectangle (0.69,0.27);
+		\draw[ubuntu_orange,line width=1pt,fill=white,fill opacity=0.75] (0.55,0.35) circle [radius=0.30cm]
+			node[text=black]{\Large \textbf 2};
+		\draw[ubuntu_orange,dashed,line width=1pt] (0.58,0.33) -- (0.66,0.23);
+    \end{scope}
+\end{tikzpicture}
 \end{wrapfigure}
 
-Z listy zaznaczonej jako \textcolor{ubuntu_orange}{(}1\textcolor{ubuntu_orange}{)} możesz wybrać którąś z dostępnych tapet. Kliknij przycisk plus \textcolor{ubuntu_orange}{(}2\textcolor{ubuntu_orange}{)}, aby otworzyć menadżer plików i wskazać inny plik graficzny na dysku twardym. Zostanie on użyty jako tapeta.
+Z listy zaznaczonej jako \circled 1 możesz wybrać którąś z dostępnych tapet. Kliknij przycisk plus \circled 2, aby otworzyć menadżer plików i wskazać inny plik graficzny na dysku twardym. Zostanie on użyty jako tapeta.
 
 W tym oknie możesz też dokonać pewnych modyfikacji środowiska graficznego Unity. Zachęcamy do eksperymentów. Wszelkie zmiany są wprowadzane na żywo.

diff --git a/files/instalacja/instalacja_rozwiazywanie_problemow.tex b/files/instalacja/instalacja_rozwiazywanie_problemow.tex
@@ -31,7 +31,7 @@ Jeżeli nie możesz uruchomić żadnego systemu operacyjnego, to program Boot Re
 
 \begin{lstlisting}[language=bash]
 sudo add-apt-repository ppa:yannubuntu/boot-repair
-sudo sed 's/trusty/saucy/g' -i /etc/apt/sources.list.d/yannubuntu-boot-repair-trusty.list
+sudo sed "s/trusty/saucy/g\" -i /etc/apt/sources.list.d/yannubuntu-boot-repair-trusty.list
 sudo apt-get update
 sudo apt-get install -y boot-repair && (boot-repair &)
 \end{lstlisting}
@@ -39,7 +39,7 @@ sudo apt-get install -y boot-repair && (boot-repair &)
 \subsubsection{Ręczne przywracanie GRUB-a}
 Ta metoda jest nieprzydatna, jeżeli masz zainstalowany tylko system Windows.
 
-Jeżeli nie masz możliwości zainstalowania paczek na nośniku instalacyjnym (np. ze względu na brak połączenia z internetem), to możesz spróbować przywrócić GRUB-a ręcznie. Uruchom instalator Ubuntu w trybie ,,Wypróbuj Ubuntu bez instalacji'' (\textit{Try Ubuntu without installing''}, a następnie otwórz terminal \keys{CTRL + Alt + t}.
+Jeżeli nie masz możliwości zainstalowania paczek na nośniku instalacyjnym (np. ze względu na brak połączenia z internetem), to możesz spróbować przywrócić GRUB-a ręcznie. Uruchom instalator Ubuntu w trybie ,,Wypróbuj Ubuntu bez instalacji'' (\textit{Try Ubuntu without installing}'', a następnie otwórz terminal \keys{CTRL + Alt + t}.
 
 Zidentyfikuj partycję, na której już jest zainstalowane Ubuntu (lub inny linux). Wykonaj:
 

diff --git a/files/pierwsze_uruchomienie/pierwsze_uruchomienie_pulpit.tex b/files/pierwsze_uruchomienie/pierwsze_uruchomienie_pulpit.tex
@@ -1,7 +1,8 @@
-\begin{wrapfigure}{R}{0.1\textwidth}
+\begin{wrapfigure}{R}{0.10\textwidth}
+	\vspace{-10pt}
 	\includegraphics[width=\linewidth]{images/ikony_dash.png}
 \end{wrapfigure}
 
-Po zalogowaniu do systemu zostanie wyświetlony pulpit systemu Ubuntu. Szczegółowy opis pulpitu znajduje się w rozdziale \ref{pulpit_unity},,Pulpit Unity''.
+Po zalogowaniu do systemu zostanie wyświetlony pulpit systemu Ubuntu. Szczegółowy opis pulpitu znajduje się w rozdziale \ref{pulpit_unity} ,,Pulpit Unity''.
 
 Zajmiemy się w nim najważniejszymi kwestiami związanymi z przygotowaniem systemu do codziennej pracy. Już teraz system jest gotowy, ale można wykonać kilka rzeczy, które uprzyjemnią obcowanie z Ubuntu. Aby sprawnie poruszać się po tej sekcji Przewodnika, zapamiętaj tę ikonę.
